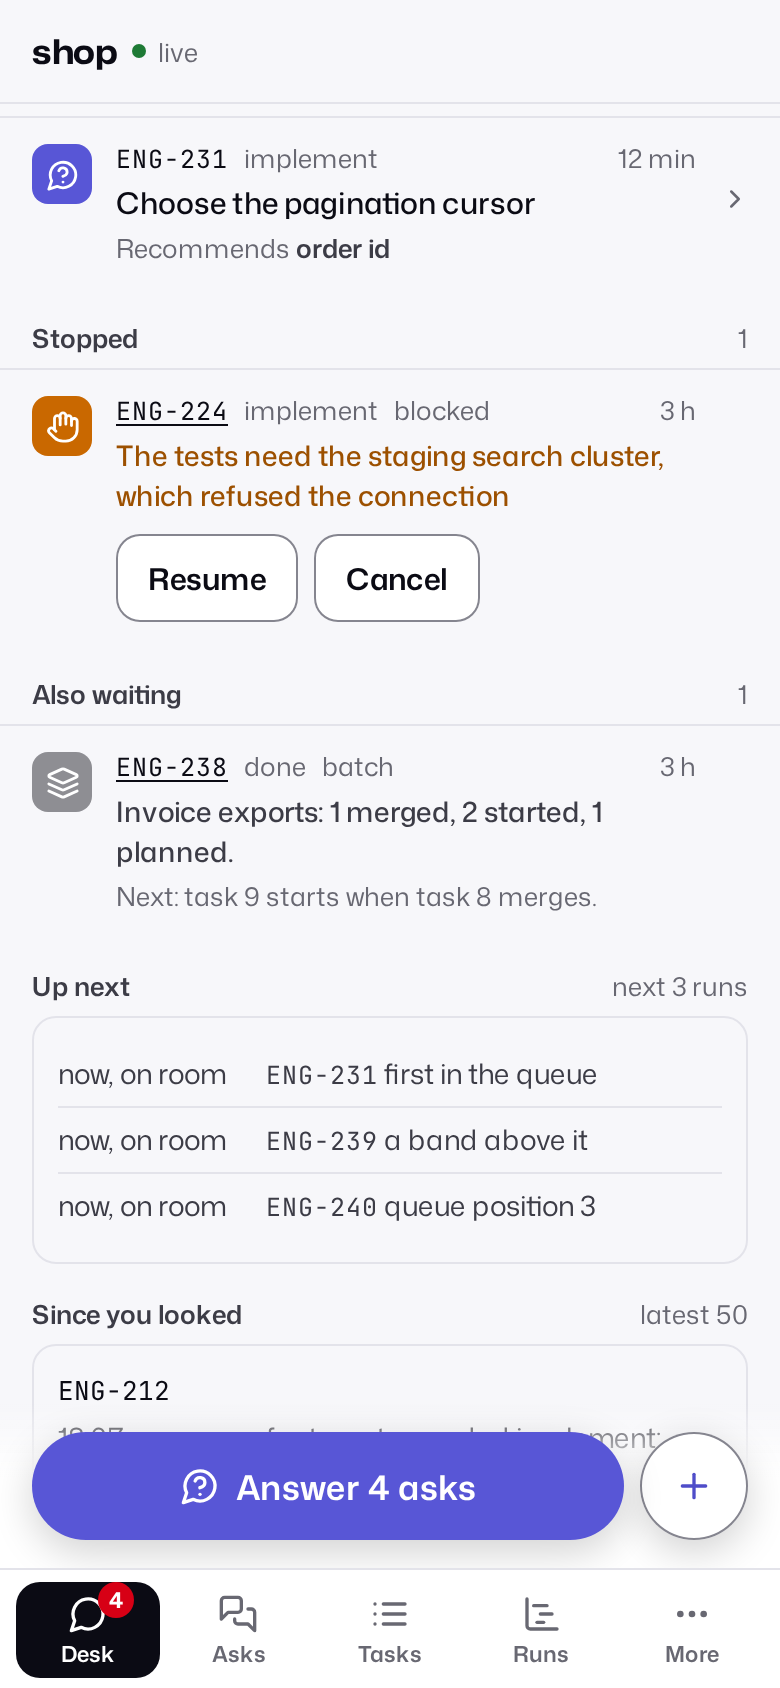
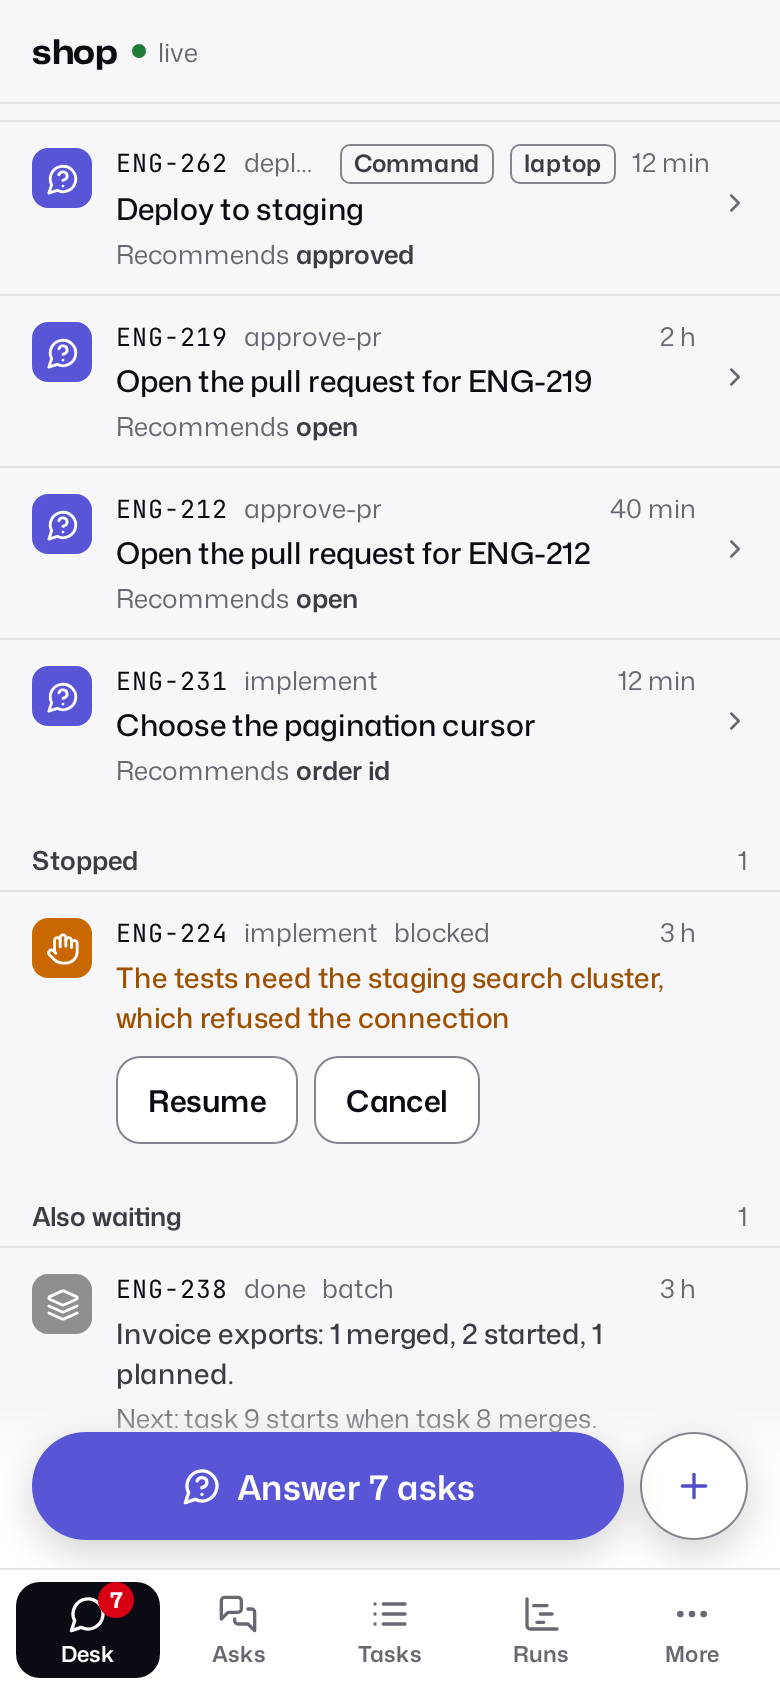
Give the demo's runners their runner files and keep the remote tile on one line
Since #263 a runner refuses a runner name with no file in runners/, so the
demo refused every action on laptop's and xps13's tasks and asks. serve.sh
now writes a runner file for workstation, laptop and xps13, the runners
seed.sql names. A test runs serve.sh and sends an answer to laptop's ask.

The web Tasks table wrapped a remote row's server tile above its hold word.
The tile and word now share the .sti line local rows use.

Retake the seven README screenshots that show remote rows, asks or the
Inbox's Unheard group, and update the desk and Tasks alt text.

diff --git a/crates/priory-core/web/app.js b/crates/priory-core/web/app.js
@@ -845,7 +845,7 @@ function remoteTableRow(task) {
   const id = remoteId(task);
   const open = state.remoteOpen === id;
   const sent = sentOf(task);
-  const row = html`<tr class="remote" data-action="remote-open" data-task="${id}"><td>${tile("elsewhere", "sm")} ${task.hold}</td><td class="mono">${task.key}</td>
+  const row = html`<tr class="remote" data-action="remote-open" data-task="${id}"><td><span class="sti">${tile("elsewhere", "sm")}${task.hold}</span></td><td class="mono">${task.key}</td>
     <td class="q full"><span>${task.title || task.key}</span>${sent ? html`<span class="why">${sent}</span>` : ""}<span class="why t3">${elsewhere(task, ago)}</span></td>
     <td>${task.workflow || ""}</td><td>${task.lane || ""}</td><td>${task.band || ""}</td><td class="r">${timeTag(task.since)} ${toggle(id, open, task.key)}</td></tr>`;
   return open ? html`${row}<tr class="remote-acts"><td></td><td></td><td colspan="5">${remoteActions(task)}</td></tr>` : row;

diff --git a/crates/priory/tests/demo.rs b/crates/priory/tests/demo.rs
@@ -1,0 +1,53 @@
+use std::fs;
+use std::os::unix::fs::PermissionsExt;
+use std::path::Path;
+use std::process::Command;
+
+/// The demo's other runners take writes, so its screenshots show what a remote action does.
+#[test]
+fn the_demo_sends_an_answer_to_another_runners_ask() {
+    let root = Path::new(env!("CARGO_MANIFEST_DIR")).join("../..");
+    let dir = Path::new(env!("CARGO_TARGET_TMPDIR")).join("demo");
+    if dir.exists() {
+        Command::new("chmod")
+            .arg("-R")
+            .arg("u+w")
+            .arg(&dir)
+            .status()
+            .unwrap();
+        fs::remove_dir_all(&dir).unwrap();
+    }
+    fs::create_dir_all(&dir).unwrap();
+    // serve.sh ends by serving for 15 minutes, which this stand-in for its binary skips.
+    let bin = dir.join("priory");
+    let real = env!("CARGO_BIN_EXE_priory");
+    fs::write(
+        &bin,
+        format!("#!/bin/sh\n[ \"$1\" = serve ] && exit 0\nexec '{real}' \"$@\"\n"),
+    )
+    .unwrap();
+    fs::set_permissions(&bin, fs::Permissions::from_mode(0o755)).unwrap();
+    let demo = dir.join("demo");
+
+    let seeded = Command::new("sh")
+        .arg(root.join("scripts/demo/serve.sh"))
+        .arg(&demo)
+        .arg(&bin)
+        .output()
+        .unwrap();
+    assert!(seeded.status.success(), "{seeded:?}");
+
+    let sent = Command::new(real)
+        .args(["answer"])
+        .arg(demo.join("factory"))
+        .args(["laptop:4", "split it", "--revision", "2"])
+        .env("PRIORY_DB", demo.join("state.db"))
+        .env("PRIORY_HOME", demo.join("home"))
+        .output()
+        .unwrap();
+    assert!(sent.status.success(), "{sent:?}");
+    assert!(
+        String::from_utf8_lossy(&sent.stdout).contains("sent to laptop"),
+        "{sent:?}"
+    );
+}

diff --git a/README.md b/README.md
@@ -44,7 +44,7 @@ The daemon's HTTP server, set by `[serve]` in `factory.toml`, serves a web view 
 phone: the desk, asks, the inbox, flows and costs. These screenshots show `priory serve` on a demo
 factory. Its design rules are in [DESIGN.md](DESIGN.md).
 
-![The desk on a 1440 px screen in light mode. A rail of views on the left, the list of four open asks, one stopped task and a going batch in the middle. A drawer on the right shows the ask "Open the pull request for ENG-212?", its recommendation to open, the options open and stop, and the agent's reasoning with the checks.](docs/images/web-view-desk-ask-1440-light.png)
+![The desk on a 1440 px screen in light mode. A rail of views on the left, the list of seven open asks, three of them from the runners laptop and xps13 with their runner tag, one stopped task and a going batch in the middle. A drawer on the right shows the ask "Open the pull request for ENG-212?", its recommendation to open, the options open and stop, and the agent's reasoning with the checks.](docs/images/web-view-desk-ask-1440-light.png)
 
 ![The same desk in dark mode.](docs/images/web-view-desk-ask-1440-dark.png)
 
@@ -68,7 +68,7 @@ The inbox groups unrouted events by resource and offers actions to subscribe an 
 
 Tasks lists every task by saved view and filter, and Runs lists the recent runs with their agent, model, outcome, duration and tokens. Each row opens its task.
 
-![Tasks on a 1440 px screen in light mode: the saved views Active, Blocked and Ended, the filters State, Lane and Workflow, and a table of tasks with their state, key, title, workflow and step, lane, band and age. A blocked task shows its reason under its title, and three tasks carry a batch 1 tag.](docs/images/web-view-tasks-1440-light.png)
+![Tasks on a 1440 px screen in light mode: the saved views Active, Blocked and Ended, the filters State, Lane, Workflow and Runner, and a table of tasks with their state, key, title, workflow and step, lane, band and age. A blocked task shows its reason under its title, and three tasks carry a batch 1 tag. The last two rows are tasks the runners laptop and xps13 hold, each with a server tile, its hold word, and the runner it is on; one shows the cancel sent to xps13.](docs/images/web-view-tasks-1440-light.png)
 
 ![Tasks on a phone in dark mode.](docs/images/web-view-tasks-390-dark.png)
 
